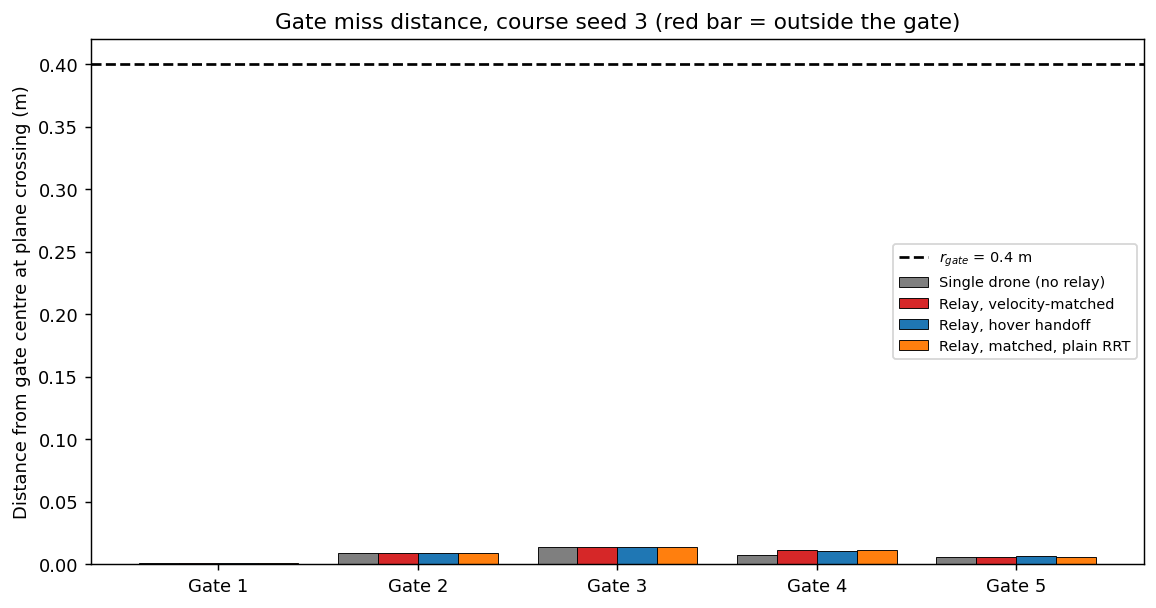
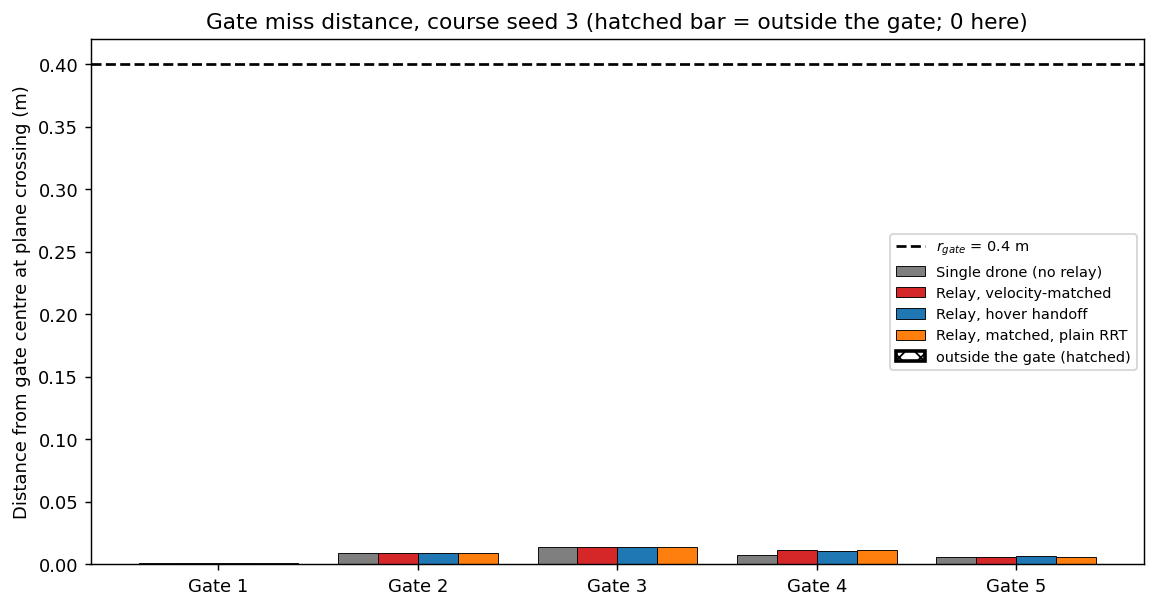
Fix S099 Cross-Obstacle Relay Pass: address review follow-ups

Changed region(s): [[0.7474, 0.375, 0.9965, 0.625], [0.1869, 0.0, 0.9031, 0.0625]]

diff --git a/src/05_special_entertainment/s099_obstacle_relay.py b/src/05_special_entertainment/s099_obstacle_relay.py
@@ -588,15 +588,23 @@ def plot_course(course, plans, res, out_dir):
 def plot_gate_miss(res, out_dir):
     fig, ax = plt.subplots(figsize=(9, 4.8))
     w = 0.2
+    n_out = 0
     for j, s in enumerate(STRATS):
         m = res[s]['miss']
-        cols = [SCOL[s] if (np.isfinite(x) and x <= R_GATE) else 'red' for x in m]
-        ax.bar(np.arange(N_GATES) + (j - 1.5) * w, np.nan_to_num(m, nan=0.0), w, color=cols,
-               edgecolor='k', lw=0.5, label=LABELS[s])
+        outside = ~(np.isfinite(m) & (m <= R_GATE))
+        n_out += int(outside.sum())
+        bars = ax.bar(np.arange(N_GATES) + (j - 1.5) * w, np.nan_to_num(m, nan=0.0), w,
+                      color=SCOL[s], edgecolor='k', lw=0.5, label=LABELS[s])
+        for b, o in zip(bars, outside):        # missed gate: hatched with a thick black edge
+            if o:
+                b.set_hatch('xx'); b.set_linewidth(2.0)
+    ax.bar([np.nan], [np.nan], color='white', edgecolor='k', lw=2.0, hatch='xx',
+           label='outside the gate (hatched)')
     ax.axhline(R_GATE, color='k', ls='--', label=f'$r_{{gate}}$ = {R_GATE} m')
     ax.set_xticks(range(N_GATES)); ax.set_xticklabels([f'Gate {k + 1}' for k in range(N_GATES)])
     ax.set_ylabel('Distance from gate centre at plane crossing (m)')
-    ax.set_title(f'Gate miss distance, course seed {DEMO_SEED} (red bar = outside the gate)')
+    ax.set_title(f'Gate miss distance, course seed {DEMO_SEED} '
+                 f'(hatched bar = outside the gate; {n_out} here)')
     ax.legend(fontsize=8)
     fig.tight_layout()
     path = os.path.join(out_dir, 'gate_miss.png')

diff --git a/outputs/05_special_entertainment/s099_obstacle_relay/README.md b/outputs/05_special_entertainment/s099_obstacle_relay/README.md
@@ -89,7 +89,7 @@ conda activate drones
 python src/05_special_entertainment/s099_obstacle_relay.py
 ```
 
-Runtime: 4.3–4.4 min, measured while other simulations shared the machine (the independent review measured 2.4 min). On the flown path, the script asserts every step that both drones stay above the ground, stay at or below $v_{max}$ = 3 m/s, and never enter a pillar. A run is scored a success only if its pillar clearance stays above 0.
+Runtime: 3.1–3.8 min, measured while other simulations shared the machine. On the flown path, the script asserts every step that both drones stay above the ground, stay at or below $v_{max}$ = 3 m/s, and never enter a pillar. A run is scored a success only if its pillar clearance stays above 0.
 
 ---
 
@@ -140,7 +140,7 @@ Seed 3, velocity-matched relay: isometric (left) and top-down (right) views. Gre
 
 ### Gate Miss Distance
 
-Miss distance at each gate plane for every strategy on the demo course; the dashed line is $r_{gate}$.
+Miss distance at each gate plane for every strategy on the demo course; the dashed line is $r_{gate}$. A bar for a gate passed outside the opening would be hatched with a thick black edge; there are none on this course (title: "0 here").
 
 ![Gate miss](./gate_miss.png)
 
